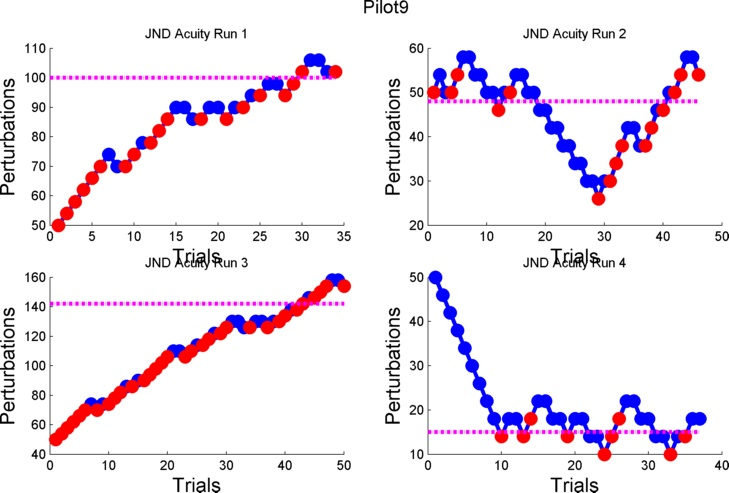
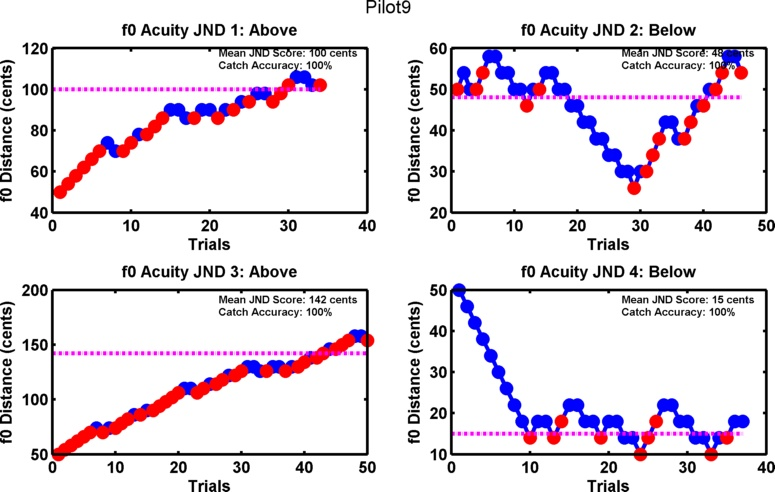
another quick fixer function and better plotting
Plots are much better now, why did this take me until 9pm to get right?

Changed region(s): [[0.0, 0.0305, 0.4829, 1.0], [0.513, 0.0305, 1.0, 1.0], [0.4527, 0.0, 0.5734, 0.0305]]

diff --git a/Analysis/drawJNDResults.m b/Analysis/drawJNDResults.m
@@ -1,19 +1,27 @@
-function drawJNDResults(JNDa, dirs, allRunData, allMeanJND)
+function drawJNDResults(JNDa, dirs, allRunData, allMeanJND, allCatchAcc)
 
 saveResultsDir = dirs.SavResultsDir;
 
 plotpos = [420 263];
 plotdim = [840 525];
-xyFS    = 15;
+xyFS    = 12;
+titleFS = 12;
+
+annoPos = [.29 .78;
+           .77 .78;
+           .29 .31;
+           .77 .31]; 
 
 AllJND = figure('Color', [1 1 1]);
 set(AllJND, 'Position',[plotpos plotdim],'PaperPositionMode','auto')
 
-ha = tight_subplot(2,2,[0.1 0.1],[0.10 0.10],[0.1 0.1]);
+ha = tight_subplot(2,2,[0.15 0.1],[0.1 0.1],[0.1 0.05]);
 
 for ii = 1:4
     UD = allRunData(ii);
     meanJND = allMeanJND(ii);
+    catchAccu = allCatchAcc(ii);
+    direction = UD.JNDDirection;
     
     axes(ha(ii))
     plot(UD.x, 'LineWidth', 3);
@@ -21,10 +29,21 @@ for ii = 1:4
     plot(find(UD.response==1),UD.x(find(UD.response==1)),'o','MarkerFaceColor',[0 0 1],'MarkerEdgeColor',[0 0 1],'MarkerSize',10);
     plot(find(UD.response==0),UD.x(find(UD.response==0)),'o','MarkerFaceColor',[1 0 0],'MarkerEdgeColor',[1 0 0],'MarkerSize',10);
     line([0 length(UD.response)], [meanJND meanJND],'LineStyle', '-.', 'LineWidth',3,'color',[1 0 1])
-    title(['JND Acuity Run ' num2str(ii)])
-    xlabel('Trials','FontSize', xyFS,'FontName','Arial');
-    ylabel('Perturbations','FontSize', xyFS,'FontName','Arial');
-    box off
+    title(['f0 Acuity JND ' num2str(ii) ': ' direction], 'FontSize', titleFS, 'FontName', 'Arial', 'FontWeight', 'bold')
+    xlabel('Trials','FontSize', xyFS,'FontName','Arial', 'FontWeight', 'bold');
+    ylabel('f0 Distance (cents)','FontSize', xyFS,'FontName','Arial', 'FontWeight', 'bold');
+    
+    t = annotation('textbox',[annoPos(ii,1) annoPos(ii,2) 0.45 0.1],...
+                   'string', {['Mean JND Score: ' num2str(meanJND) ' cents'];...
+                              ['Catch Accuracy: ' num2str(catchAccu) '%']},...
+                    'LineStyle','none',...
+                    'FontWeight','bold',...
+                    'FontSize',8,...
+                    'FontName','Arial');
+    
+    set(gca, 'LineWidth',2, 'FontSize',12,...
+              'FontName','Arial',...
+              'FontWeight','bold')
 end
 
 suptitle(JNDa.participant)

diff --git a/Analysis/dfAnalysisJND.m b/Analysis/dfAnalysisJND.m
@@ -20,6 +20,7 @@ for ii = 1:4
     
     load(dirs.SavFileDir)
     UD = setCatchAcc(UD);
+    UD = setDirection(UD, JNDa, ii);
     meanJND = dfAnalyzeThresholdJND(UD, 'reversals', 4); %Cents
     
     allRunData = cat(1, allRunData, UD);
@@ -27,7 +28,7 @@ for ii = 1:4
     allCatchAcc = cat(1, allCatchAcc, UD.catchAccuracy);
 end
 
-drawJNDResults(JNDa, dirs, allRunData, allmeanJND)
+drawJNDResults(JNDa, dirs, allRunData, allmeanJND, allCatchAcc)
 end
 
 function UD = setCatchAcc(UD)
@@ -38,5 +39,23 @@ if ~isfield(UD, 'catchTrials')
     UD.reversals = max(UD.reversal);
     UD.catchCorrect = sum(UD.catchResponse == 0);
     UD.catchAccuracy = 100*(UD.catchCorrect/UD.catchTrials);
+end
+end
+
+function UD = setDirection(UD, JNDa, ii)
+if ~isfield(UD, 'JNDDirection')
+    if strcmp(JNDa.participant, 'Pilot9')
+        if ii == 1 || ii == 3
+            UD.JNDDirection = 'Above';
+        else
+            UD.JNDDirection = 'Below';
+        end
+    else
+        if ii == 2 || ii == 4
+            UD.JNDDirection = 'Above';
+        else
+            UD.JNDDirection = 'Below';
+        end 
+    end
 end
 end
